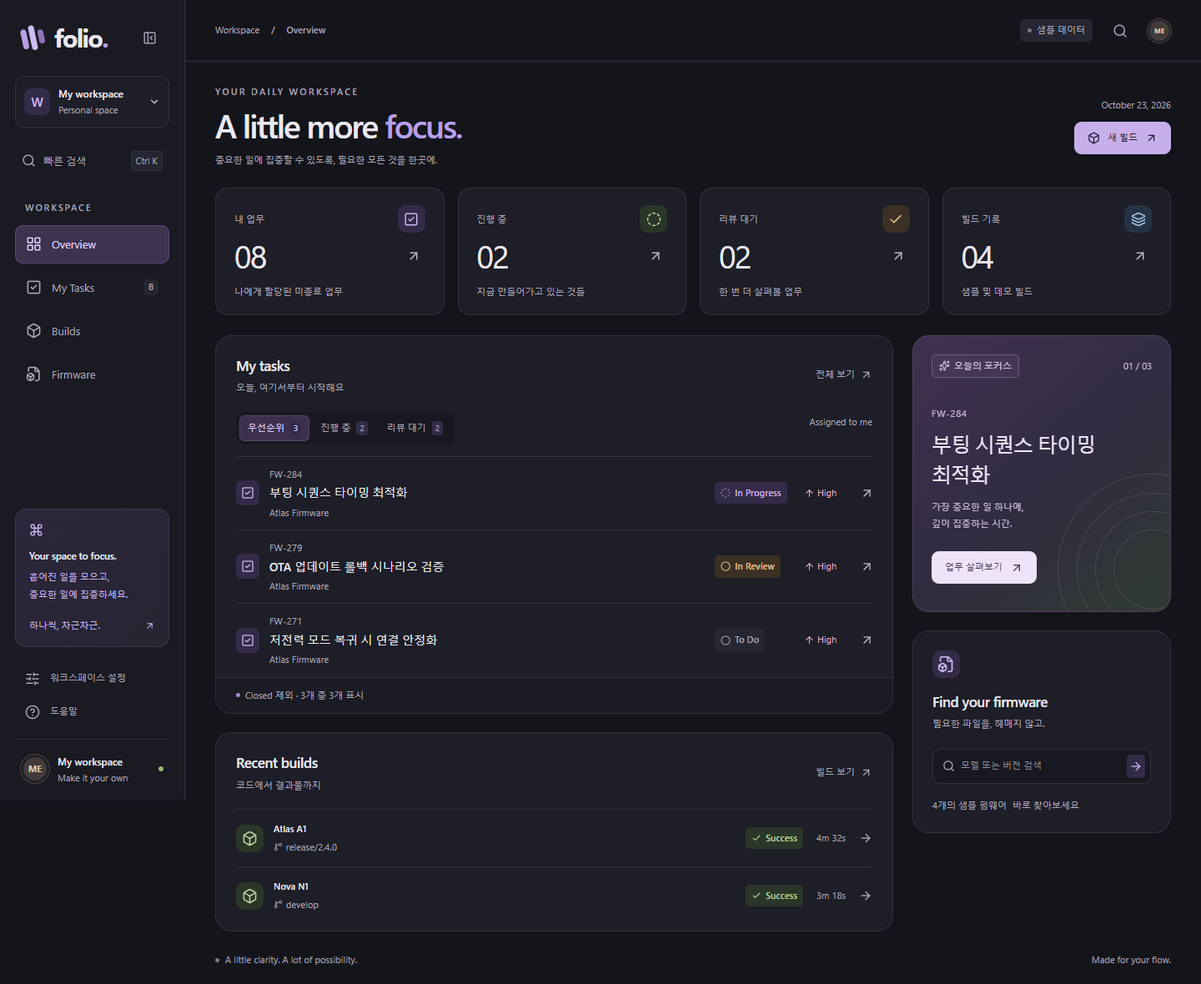
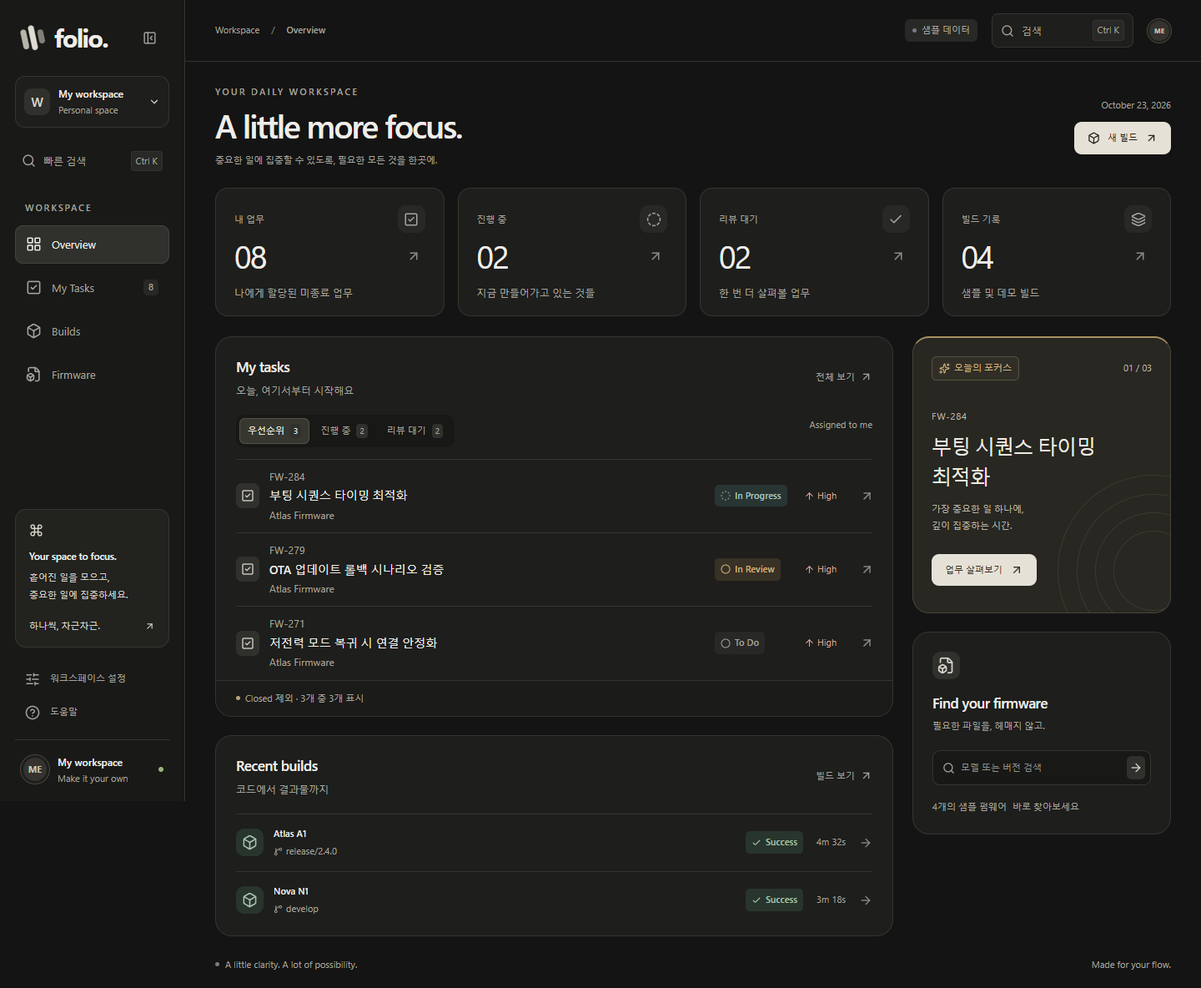
feat(ui): refine neutral theme and workspace controls

diff --git a/src/theme.css b/src/theme.css
@@ -1,106 +1,144 @@
 /* Theme selection uses native radios, including arrow-key navigation. */
-:root { color-scheme: light; }
+:root { color-scheme: light; --ring: #7d776c; --control-fill: #303035; --control-ink: #fff; }
 .theme-picker { border: 0; padding: 0; margin: 0 0 28px; min-width: 0; }
 .theme-picker legend { font-size: 13px; font-weight: 600; color: var(--text); }
 .theme-picker > p { color: var(--muted); font-size: 11px; margin: 7px 0 16px; line-height: 1.8; }
 .theme-options { display: grid; grid-template-columns: repeat(2, minmax(0, 1fr)); gap: 12px; }
 .theme-option { position: relative; display: flex; flex-direction: column; gap: 5px; padding: 11px; border: 1px solid var(--border); border-radius: 12px; cursor: pointer; background: var(--surface); }
-.theme-option:has(:checked) { border-color: var(--purple); box-shadow: 0 0 0 1px var(--purple); }
-.theme-option:has(:focus-visible) { outline: 2px solid var(--purple); outline-offset: 4px; }
-.theme-option input { position: absolute; right: 12px; bottom: 31px; accent-color: var(--purple); width: 14px; height: 14px; }
+.theme-option:has(:checked) { border-color: var(--ring); box-shadow: 0 0 0 1px var(--ring); }
+.theme-option:has(:focus-visible) { outline: 2px solid var(--ring); outline-offset: 4px; }
+.theme-option input { position: absolute; right: 12px; bottom: 31px; accent-color: var(--ring); width: 14px; height: 14px; }
 .theme-option-name { color: var(--text); font-weight: 600; font-size: 12px; margin-top: 5px; }
 .theme-option small { color: var(--muted); font-size: 11px; }
 .theme-swatch { height: 66px; display: flex; gap: 8px; padding: 8px; border-radius: 7px; background: #f0eff5; border: 1px solid #e2deeb; }
 .theme-swatch > i { width: 22%; border-radius: 3px; background: #d4c7ef; }
 .theme-swatch > span { display: grid; grid-template-columns: 1fr 1fr; gap: 5px; flex: 1; }
 .theme-swatch b { background: white; border-radius: 3px; }.theme-swatch b:last-child { grid-column: span 2; }
-[data-preview='dark'] .theme-swatch { background: #16171d; border-color: #33343e; }
-[data-preview='dark'] .theme-swatch > i { background: #8770b3; }
-[data-preview='dark'] .theme-swatch b { background: #30313c; }
+[data-preview='dark'] .theme-swatch { background: #151515; border-color: #363633; }
+[data-preview='dark'] .theme-swatch > i { background: #a9a69f; }
+[data-preview='dark'] .theme-swatch b { background: #30302e; }
 
-/* Midnight: graphite surfaces, soft lavender accents and legible status colors. */
+/* Midnight: warm neutral surfaces; color is reserved for status and focus. */
 :root[data-theme='dark'] {
   color-scheme: dark;
-  --canvas: #14151b; --surface: #1d1e27; --text: #ebe9f2; --muted: #aba6ba; --border: #32323f;
-  --lavender: #332b48; --purple: #b9a0eb; --lime: #2c382c;
-  --raised: #252631; --hover: #2d2b3a; --field: #181920; --accent-ink: #c9b5ef;
-  --green-ink: #bad49e; --green-fill: #293628; --amber-ink: #e5c28d; --amber-fill: #3b3023;
-  --red-ink: #edabc0; --red-fill: #3c2731;
+  --ring: #a29c8d; --control-fill: #e5e1d7; --control-ink: #22221e;
+  --canvas: #141414; --surface: #1e1e1c; --text: #eeede9; --muted: #a5a49e; --border: #343430;
+  --accent-surface: #30302c; --accent-foreground: #d6d3c9;
+  --lavender: var(--accent-surface); --purple: #dedbd2; --lime: #29332e;
+  --raised: #282826; --hover: #30302c; --field: #181817; --accent-ink: var(--accent-foreground);
+  --green-ink: #a9c4b0; --green-fill: #28352d; --amber-ink: #d5b57d; --amber-fill: #383125;
+  --red-ink: #d9a49a; --red-fill: #3b2b27;
   color: var(--text); background: var(--canvas);
 }
 html[data-theme='dark'] {
-  ::selection { background: #604b86; color: #fff; }
+  ::selection { background: #565449; color: #fff; }
   input, select { color: var(--text); }
-  input::placeholder { color: #908b9f; }
+  input::placeholder { color: #93928c; }
   option { color: var(--text); background: var(--field); }
-  .sidebar { background: #191a22; }
+  .sidebar { background: #191918; }
   .card, .workspace-switch, .status-summary, .dialog-content, .toast { background: var(--surface); border-color: var(--border); }
   .dialog-content, .toast { box-shadow: 0 20px 70px #0006; }
   .icon-button, .sidebar-search, .nav-item, .sidebar-bottom button, .text-button { color: var(--muted); }
   .icon-button:hover, .nav-item:hover, .sidebar-bottom button:hover, .task-row:hover, .recent-build-row:hover { background: var(--hover); color: var(--text); }
-  .nav-indicator { background: #3c334f; box-shadow: inset 0 0 0 1px #5b4875; }
-  .nav-item.active { background: transparent; color: #e4d4ff; }
+  .nav-indicator { background: #30302d; box-shadow: inset 0 0 0 1px #44443e; }
+  .nav-item.active { background: transparent; color: #f0eee7; }
   .nav-item b, .nav-item.active b, kbd, .demo-badge { background: var(--raised); color: var(--muted); border-color: var(--border); }
   .nav-item.active b { color: var(--accent-ink); }
   .workspace-icon { color: var(--accent-ink); }
-  .workspace-note { background: linear-gradient(135deg, #2d263c, #252632); border-color: #40354e; }
+  .workspace-note { background: #22221f; border-color: #363630; }
   .workspace-note p, .workspace-note > span:last-child, .note-symbol { color: var(--accent-ink); }
-  .avatar, .mini-avatar { background: #423b38; color: #dbc7b4; border-color: var(--surface); box-shadow: 0 0 0 1px #51433d; }
+  .avatar, .mini-avatar { background: #36332e; color: #c9c3b5; border-color: var(--surface); box-shadow: 0 0 0 1px #4a463d; }
   .breadcrumbs, .breadcrumbs strong, .nav-caption, .eyebrow, .date-label, .page-heading p, .page-index, .page-index > span, .workspace-foot { color: var(--muted); }
-  h1 > span, .brand-name > span { color: var(--purple); }
-  .button.primary { background: #c7afea; color: #231b32; box-shadow: 0 3px 12px #0002; }
-  .button.primary:hover { background: #d7c2f3; }
+  h1 > span, .brand-name > span { color: var(--text); }
+  .button.primary { background: #e5e1d7; color: #22221e; box-shadow: 0 3px 12px #0002; }
+  .button.primary:hover { background: #f3f0e8; }
   .button.secondary { background: var(--raised); border-color: var(--border); color: var(--text); }
   .button.secondary:hover { background: var(--hover); }
-  .metric-card:hover { border-color: #78618f; box-shadow: 0 4px 18px #0002; }
+  .metric-card:hover { border-color: #626259; box-shadow: 0 4px 18px #0002; }
   .metric-top, .metric-card p, .panel-heading p, .subtle-label, .task-key, .task-project, .recent-build-name small, .build-duration { color: var(--muted); }
   .square-icon, .artifact-icon { background: var(--lavender); color: var(--accent-ink); }
   .lavender, .status-badge.purple { background: var(--lavender); color: var(--accent-ink); }
   .mint, .status-badge.green { background: var(--green-fill); color: var(--green-ink); }
   .peach, .status-badge.amber { background: var(--amber-fill); color: var(--amber-ink); }
-  .blue { background: #253344; color: #a9c8e9; }
+  .blue { background: #2b3234; color: #b5c4c5; }
   .rose, .status-badge.red { background: var(--red-fill); color: var(--red-ink); }
   .status-badge.neutral { background: var(--raised); color: var(--muted); }
   .priority { color: var(--muted); }.priority-high { color: var(--red-ink); }.priority-low { color: var(--green-ink); }
   .task-row, .recent-build-row, .card-footnote, .task-table-head, .table-footer, .build-table th, .build-table td, .artifact-row, .dialog-heading, .detail-fields > div, .integration-row, .search-footer { border-color: var(--border); }
-  .card-footnote { background: #1a1b23; color: var(--muted); }
-  .focus-card { background: linear-gradient(140deg, #403151, #302c40 55%, #303b31); border-color: #51415f; }
-  .focus-top, .focus-key, .focus-content p { color: #c7b5d9; }
-  .focus-top > span:first-child { background: #b99cdb12; border-color: #705981; color: #dac4ef; }
-  .focus-content h2 { color: #f0e5fa; }
-  .focus-button { background: #eee4fa; color: #493456; border-color: transparent; }
-  .focus-button:hover { background: #fff; }.focus-orbit, .focus-orbit i { border-color: #c5add528; }
+  .card-footnote { background: #1b1b19; color: var(--muted); }
+  .focus-card { background: #282722; border-color: #484437; }
+  .focus-top, .focus-key, .focus-content p { color: #bbb5a5; }
+  .focus-top > span:first-child { background: #d5b57d0c; border-color: #5b5140; color: #d5b57d; }
+  .focus-content h2 { color: #eeebe2; }
+  .focus-button { background: #e5e1d7; color: #302e26; border-color: transparent; }
+  .focus-button:hover { background: #fff; }.focus-orbit, .focus-orbit i { border-color: #b7a78222; }
   .quick-firmware p, .library-count, .library-count > span { color: var(--muted); }
   .quick-search, .search-input, select, .input-with-icon, .global-search-field { background: var(--field); border-color: var(--border); color: var(--muted); }
   .quick-search button { background: var(--lavender); color: var(--accent-ink); }
-  .quick-search button:hover { background: #4c3b65; }
-  .status-summary.selected { background: #292334; border-color: #9473bd; box-shadow: 0 0 0 2px #b99cdb20; }
+  .quick-search button:hover { background: #45453d; }
+  .status-summary.selected { background: #292925; border-color: #858275; box-shadow: 0 0 0 2px #dedbd220; }
   .status-summary > span:last-child, .select-wrap, .task-table-head, .table-footer, .empty-state, .form-grid label, .field-label, .form-bottom > span { color: var(--muted); }
-  .count-pill, .version-tag { background: var(--lavender); color: var(--accent-ink); border-color: #4b3d60; }
+  .count-pill, .version-tag { background: var(--lavender); color: var(--accent-ink); border-color: #4a4a41; }
   .pagination > span { background: var(--lavender); color: var(--accent-ink); }
   .empty-state h3 { color: var(--text); }
   .form-error { color: var(--red-ink); }
-  .input-with-icon:has(input[aria-invalid='true']) { background: var(--red-fill); border-color: #b7768c; }
-  .build-aside { background: linear-gradient(135deg, #2d392e, #242d28); border-color: #42513d; }
+  .input-with-icon:has(input[aria-invalid='true']) { background: var(--red-fill); border-color: #b78477; }
+  .build-aside { background: #242924; border-color: #3b443b; }
   .build-aside > .square-icon { background: var(--green-fill); color: var(--green-ink); }
-  .build-aside h2 { color: #d5e4c4; }.build-aside p, .build-aside .eyebrow, .aside-foot { color: var(--green-ink); }
-  .branch-illustration > span { background: #2d392e; }
+  .build-aside h2 { color: #d5ddd2; }.build-aside p, .build-aside .eyebrow, .aside-foot { color: var(--green-ink); }
+  .branch-illustration > span { background: #293029; }
   .build-table th, .build-table td, .table-identity small { color: var(--muted); }.table-identity strong { color: var(--text); }
-  .firmware-hero { background: linear-gradient(115deg, #31283f, #292838 55%, #263444); border-color: #43394f; }
+  .firmware-hero { background: #252624; border-color: #3b3e38; }
   .firmware-hero h2 { color: var(--text); }.firmware-hero h2 > span, .firmware-hero p { color: var(--accent-ink); }
-  .chip-core { background: linear-gradient(130deg, #4e4065, #292437); border-color: #72608a; color: #c4afe0; box-shadow: 12px 20px 25px #0003, inset 1px 1px 0 #ffffff15; }
-  .chip-core > span { background: #3a304b; }.chip-label { background: #322b40; border-color: #635175; color: #d4c1ea; }
+  .chip-core { background: linear-gradient(130deg, #42443e, #282a26); border-color: #64685b; color: #c3c9b6; box-shadow: 12px 20px 25px #0003, inset 1px 1px 0 #ffffff15; }
+  .chip-core > span { background: #34372f; }.chip-label { background: #30332c; border-color: #5b6053; color: #d1d6c5; }
   .artifact-title { color: var(--text); }.artifact-title:hover { color: var(--accent-ink); }
   .artifact-meta, .artifact-info code { color: var(--muted); }
-  .dialog-overlay { background: #07080dc2; }
+  .dialog-overlay { background: #080808c2; }
   .dialog-heading h2, .task-details h2, .setting-row strong { color: var(--text); }
   .dialog-heading p, .task-details p, .task-details h3, .detail-fields dt, .detail-fields dd, .settings-body > p, .settings-body h3, .setting-row p, .integration-row, .help-shortcut { color: var(--muted); }
-  .note-box, .path-block, .build-result { background: #292334; border-color: #44354f; color: var(--accent-ink); }
+  .note-box, .path-block, .build-result { background: #292925; border-color: #414138; color: var(--accent-ink); }
   .search-results strong { color: var(--text); }.search-results small, .search-empty, .search-footer { color: var(--muted); }
-  .search-results > button:hover, .search-results > button:focus-visible, .search-results > button[aria-selected='true'] { background: var(--hover); }
+  .search-results button[role='option']:hover, .search-results button[role='option']:focus-visible, .search-results button[role='option'][aria-selected='true'] { background: var(--hover); }
   .preview-switch { background: var(--field); }.preview-switch button { color: var(--muted); }
-  .preview-switch button[aria-pressed='true'] { background: #3b304d; color: #e1ccfc; box-shadow: inset 0 0 0 1px #59426f; }
+  .preview-switch button[aria-pressed='true'] { background: #373730; color: #eeece3; box-shadow: inset 0 0 0 1px #525248; }
   .preview-switch button span { background: var(--lavender); }.preview-empty { color: var(--muted); }
-  .copy-button[data-copied='true'] { color: var(--green-ink); background: var(--green-fill); border-color: #526744; }
+  .copy-button[data-copied='true'] { color: var(--green-ink); background: var(--green-fill); border-color: #506553; }
   .toast { color: var(--text); }
+  .brand-mark span { background: #b7b4aa; }.brand-mark span:nth-child(2) { background: #dedbd2; }.brand-mark span:last-child { background: #827f76; }
+  .purple-dot { background: #b5a47c; }
+  .status-badge.purple { color: #a9c6c2; background: #283532; }
+  .metric-top .square-icon { background: var(--raised); color: var(--muted); }
+  .chip-orbit { border-color: #71776755; }
+  .branch-illustration > span, .branch-illustration::after { border-color: #88957f; }.branch-illustration i { background: #88957f; }
+  .row-arrow, .metric-value svg, .recent-build-row > svg, .artifact-title > svg, .breadcrumbs > span { color: #8c8b82; }
+  .focus-card { border-top: 2px solid #aa9162; }
+  .card, .metric-card, .status-summary { box-shadow: none; }
+
 }
+
+/* Shared interaction refinements informed by shadcn Field, Switch and Command. */
+button:focus-visible, a:focus-visible, input:focus-visible, select:focus-visible { outline-color: var(--ring); }
+.search-input:focus-within, .quick-search:focus-within, .input-with-icon:focus-within, .global-search-field:focus-within {
+  border-color: var(--ring); box-shadow: 0 0 0 3px color-mix(in srgb, var(--ring) 18%, transparent);
+}
+.search-input input:focus-visible, .quick-search input:focus-visible, .input-with-icon input:focus-visible, .global-search-field input:focus-visible { outline: none; }
+.input-with-icon:has(input[aria-invalid='true']):focus-within { border-color: #b78477; box-shadow: 0 0 0 3px #b7847726; }
+.header-search { display: inline-flex; align-items: center; gap: 9px; padding: 7px 10px; min-width: 170px; border: 1px solid var(--border); border-radius: 8px; background: var(--surface); color: var(--muted); font-size: 12px; }
+.header-search kbd { margin-left: auto; }.header-search:hover { border-color: var(--ring); }
+.motion-setting { justify-content: space-between; padding: 16px; border: 1px solid var(--border); border-radius: 10px; cursor: pointer; }
+.setting-description { display: block; font-size: 12px; line-height: 1.7; color: var(--muted); margin-top: 6px; }
+.setting-row .switch-control { appearance: none; position: relative; margin: 0; width: 36px; height: 21px; border: 1px solid var(--border); border-radius: 20px; background: var(--border); cursor: pointer; transition: background-color var(--motion-fast); }
+.switch-control::before { content: ''; display: block; position: absolute; top: 2px; left: 2px; height: 15px; width: 15px; background: var(--surface); border-radius: 50%; box-shadow: 0 1px 3px #0003; transition: transform var(--motion-fast); }
+.setting-row .switch-control:checked { background: var(--control-fill); border-color: var(--control-fill); }
+.switch-control:checked::before { transform: translateX(15px); background: var(--control-ink); }
+.search-results { max-height: min(390px, 45vh); overflow-y: auto; overscroll-behavior: contain; scrollbar-width: thin; }
+.search-group + .search-group { border-top: 1px solid var(--border); margin-top: 6px; padding-top: 6px; }
+.search-group-heading { display: flex; justify-content: space-between; padding: 8px 12px; font-size: 12px; font-weight: 600; color: var(--muted); }
+.search-group-heading span { font-size: 11px; font-weight: 400; font-variant-numeric: tabular-nums; }
+.search-results button[role='option'] { padding: 10px 12px; }
+.search-results button[role='option'] .square-icon { width: 28px; height: 28px; border-radius: 6px; }
+.search-results strong, .search-input input, .global-search-field input, .form-grid label, .field-label, .input-with-icon input, select { font-size: 13px; }
+.panel-heading p, .metric-card p, .task-key, .task-project, .artifact-meta, .artifact-info code, .form-bottom > span { font-size: 12px; }
+.dialog-heading { padding: 20px 24px; }.dialog-content { border-radius: 14px; }
+@media (max-width: 800px) { .header-search { min-width: 0; }.header-search kbd { display: none; } }

diff --git a/src/App.tsx b/src/App.tsx
@@ -59,11 +59,11 @@ export default function App() {
     <aside className="sidebar"><div className="brand-row"><a className="brand" href="#" aria-label="Folio 홈" onClick={e => { e.preventDefault(); setView('overview'); }}><span className="brand-mark"><span /><span /><span /></span><span className="brand-name">folio<span>.</span></span></a><button className="icon-button sidebar-toggle" aria-label={collapsed ? '메뉴 펼치기' : '메뉴 접기'} onClick={() => setCollapsed(!collapsed)}>{collapsed ? <PanelLeftOpen size={17} /> : <PanelLeftClose size={17} />}</button></div>
       <button className="workspace-switch" onClick={() => setInfo('settings')}><span className="workspace-icon">W</span><span><strong>My workspace</strong><small>Personal space</small></span><ChevronDown size={14} /></button>
       <button className="sidebar-search" aria-label="통합 검색 열기" onClick={() => setSearchOpen(true)}><Search size={17} /><span>빠른 검색</span><kbd>Ctrl K</kbd></button>
-      <span className="nav-caption">WORKSPACE</span><nav aria-label="주 메뉴" style={{ '--active-index': NAV_ITEMS.findIndex(item => item.id === view) } as CSSProperties}><span className="nav-indicator" aria-hidden="true" />{NAV_ITEMS.map(item => { const Icon = NAV_ICONS[item.id]; return <button aria-label={item.label} aria-current={view === item.id ? 'page' : undefined} className={`nav-item ${view === item.id ? 'active' : ''}`} onClick={() => setView(item.id)} key={item.id}><Icon size={19} /><span>{item.label}</span>{item.id === 'tasks' && <b>{owned.length}</b>}</button>; })}</nav>
+      <span className="nav-caption">WORKSPACE</span><nav aria-label="주 메뉴" style={{ '--active-index': NAV_ITEMS.findIndex(item => item.id === view) } as CSSProperties}><span className="nav-indicator" aria-hidden="true" />{NAV_ITEMS.map(item => { const Icon = NAV_ICONS[item.id]; return <button aria-label={item.label} title={item.label} aria-current={view === item.id ? 'page' : undefined} className={`nav-item ${view === item.id ? 'active' : ''}`} onClick={() => setView(item.id)} key={item.id}><Icon size={19} /><span>{item.label}</span>{item.id === 'tasks' && <b>{owned.length}</b>}</button>; })}</nav>
       <div className="sidebar-spacer" /><div className="workspace-note"><span className="note-symbol"><Command size={17} /></span><strong>Your space to focus.</strong><p>흩어진 일을 모으고,<br />중요한 일에 집중하세요.</p><span>하나씩, 차근차근.<ArrowUpRight size={13} /></span></div>
-      <div className="sidebar-bottom"><button onClick={() => setInfo('settings')}><SlidersHorizontal size={18} /><span>워크스페이스 설정</span></button><button onClick={() => setInfo('help')}><HelpCircle size={18} /><span>도움말</span></button></div><div className="profile"><span className="avatar">ME</span><span><strong>My workspace</strong><small>Make it your own</small></span><span className="profile-dot" /></div>
+      <div className="sidebar-bottom"><button aria-label="워크스페이스 설정" title="워크스페이스 설정" onClick={() => setInfo('settings')}><SlidersHorizontal size={18} /><span>워크스페이스 설정</span></button><button aria-label="도움말" title="도움말" onClick={() => setInfo('help')}><HelpCircle size={18} /><span>도움말</span></button></div><div className="profile"><span className="avatar">ME</span><span><strong>My workspace</strong><small>Make it your own</small></span><span className="profile-dot" /></div>
     </aside>
-    <main className="main-content"><header className="topbar"><div className="breadcrumbs">Workspace <span>/</span> <strong>{nav.label}</strong></div><div className="topbar-right"><span className="demo-badge"><span className="tiny-dot" />샘플 데이터</span><button className="icon-button header-search" aria-label="검색" onClick={() => setSearchOpen(true)}><Search size={18} /></button><span className="mini-avatar">ME</span></div></header>
+    <main className="main-content"><header className="topbar"><div className="breadcrumbs">Workspace <span>/</span> <strong>{nav.label}</strong></div><div className="topbar-right"><span className="demo-badge"><span className="tiny-dot" />샘플 데이터</span><button className="header-search" aria-label="검색" onClick={() => setSearchOpen(true)}><Search size={16} /><span>검색</span><kbd>Ctrl K</kbd></button><span className="mini-avatar">ME</span></div></header>
       <div className="page-content"><div className="page-heading"><div><span className="eyebrow">{nav.eyebrow}</span><h1>{view === 'overview' ? <>A little more <span>focus.</span></> : nav.label}</h1><p>{nav.subtitle}</p></div><div className="heading-action">{view === 'overview' ? <><span className="date-label">{today}</span><button className="button primary" onClick={() => setView('builds')}><Box size={15} />새 빌드<ArrowUpRight size={15} /></button></> : <span className="page-index">0{NAV_ITEMS.findIndex(item => item.id === view) + 1}<span> / 04</span></span>}</div></div>
       <div className="view-content" key={view}>
         {view === 'overview' && <Overview tasks={owned} builds={builds} firmware={demoFirmware} navigate={setView} onTask={setTask} onBuild={setBuild} onFirmwareSearch={query => { setFirmwareQuery(query); setModel(ALL); setView('firmware'); }} />}
@@ -74,7 +74,7 @@ export default function App() {
     </main>
     <GlobalSearch open={searchOpen} onClose={() => setSearchOpen(false)} tasks={owned} builds={builds} firmware={demoFirmware} onTask={selected => { setView('tasks'); setTask(selected); }} onBuild={selected => { setView('builds'); setBuild(selected); }} onFirmware={selected => { setView('firmware'); setArtifact(selected); }} />
     <TaskDetails task={task} onClose={() => setTask(null)} /><BuildDetails build={build} onClose={() => setBuild(null)} /><FirmwareDetails record={artifact} onClose={() => setArtifact(null)} notify={setNotification} />
-    <Modal open={!!info} onClose={() => setInfo(null)} title={info === 'settings' ? '워크스페이스 설정' : 'Welcome to Folio'} description="나만의 업무 공간을 준비하는 첫 단계"><div className="settings-body">{info === 'settings' ? <><fieldset className="theme-picker"><legend>화면 테마</legend><p>나에게 편안한 분위기를 선택하세요. 다음 실행에도 유지됩니다.</p><div className="theme-options">{THEMES.map(option => <label className="theme-option" key={option.id} data-preview={option.id}><input type="radio" name="theme" value={option.id} checked={theme === option.id} onChange={() => changeTheme(option.id)} /><span className="theme-swatch" aria-hidden="true"><i /><span><b /><b /><b /></span></span><span className="theme-option-name">{option.name}</span><small>{option.description}</small></label>)}</div></fieldset><div className="setting-row"><div><strong>움직임 줄이기</strong><p>화면 전환 효과를 줄입니다. Windows 설정도 자동으로 반영됩니다.</p></div><input type="checkbox" aria-label="움직임 줄이기" checked={reduceMotion} onChange={e => setReduceMotion(e.target.checked)} /></div><h3>연결 서비스</h3>{['Jira', 'Build system', 'Firmware source'].map(service => <div className="integration-row" key={service}><span>{service}</span><span className="status-badge neutral">연결 전</span></div>)}<p className="settings-note">현재는 예시 데이터로 동작합니다. 회사 환경에서 서비스를 연결해주세요. 데모 변경 사항은 앱을 다시 열면 초기화됩니다.</p></> : <><p>업무, 빌드, 펌웨어를 한곳에서 확인하는 개인용 대시보드입니다.</p><div className="help-shortcut"><kbd>Ctrl</kbd> + <kbd>K</kbd><span>어디서든 통합 검색</span></div><div className="help-shortcut"><kbd>Esc</kbd><span>상세 패널과 대화상자 닫기</span></div><div className="note-box">모든 업무·빌드·파일은 예시입니다. 빌드 추가는 데모 대기열에만 반영되고 실제 파일이나 서버는 변경하지 않습니다.</div></>}</div></Modal>
+    <Modal open={!!info} onClose={() => setInfo(null)} title={info === 'settings' ? '워크스페이스 설정' : 'Welcome to Folio'} description="나만의 업무 공간을 준비하는 첫 단계"><div className="settings-body">{info === 'settings' ? <><fieldset className="theme-picker"><legend>화면 테마</legend><p>나에게 편안한 분위기를 선택하세요. 다음 실행에도 유지됩니다.</p><div className="theme-options">{THEMES.map(option => <label className="theme-option" key={option.id} data-preview={option.id}><input type="radio" name="theme" value={option.id} checked={theme === option.id} onChange={() => changeTheme(option.id)} /><span className="theme-swatch" aria-hidden="true"><i /><span><b /><b /><b /></span></span><span className="theme-option-name">{option.name}</span><small>{option.description}</small></label>)}</div></fieldset><label className="setting-row motion-setting"><span><strong>움직임 줄이기</strong><span className="setting-description" id="motion-description">화면 전환 효과를 줄입니다. Windows 설정도 자동으로 반영됩니다.</span></span><input className="switch-control" type="checkbox" role="switch" aria-label="움직임 줄이기" aria-describedby="motion-description" checked={reduceMotion} onChange={e => setReduceMotion(e.target.checked)} /></label><h3>연결 서비스</h3>{['Jira', 'Build system', 'Firmware source'].map(service => <div className="integration-row" key={service}><span>{service}</span><span className="status-badge neutral">연결 전</span></div>)}<p className="settings-note">현재는 예시 데이터로 동작합니다. 회사 환경에서 서비스를 연결해주세요. 데모 변경 사항은 앱을 다시 열면 초기화됩니다.</p></> : <><p>업무, 빌드, 펌웨어를 한곳에서 확인하는 개인용 대시보드입니다.</p><div className="help-shortcut"><kbd>Ctrl</kbd> + <kbd>K</kbd><span>어디서든 통합 검색</span></div><div className="help-shortcut"><kbd>Esc</kbd><span>상세 패널과 대화상자 닫기</span></div><div className="note-box">모든 업무·빌드·파일은 예시입니다. 빌드 추가는 데모 대기열에만 반영되고 실제 파일이나 서버는 변경하지 않습니다.</div></>}</div></Modal>
     {notification && <div className="toast" role="status"><span>{notification}</span><button className="icon-button" aria-label="알림 닫기" onClick={() => setNotification('')}><X size={16} /></button></div>}
   </div>;
 }

diff --git a/src/components/GlobalSearch.tsx b/src/components/GlobalSearch.tsx
@@ -1,25 +1,53 @@
-import { useState, type KeyboardEvent } from 'react';
+import { useEffect, useState, type KeyboardEvent } from 'react';
 import { ArrowUpRight, Box, FileBox, Search, SquareCheck } from 'lucide-react';
 import { Modal } from './ui';
 import type { Task, Build, FirmwareArtifact } from '../data/model';
-export function GlobalSearch({ open, onClose, tasks, builds, firmware, onTask, onBuild, onFirmware }: { open: boolean; onClose: () => void; tasks: Task[]; builds: Build[]; firmware: FirmwareArtifact[]; onTask: (task: Task) => void; onBuild: (build: Build) => void; onFirmware: (record: FirmwareArtifact) => void }) {
+
+const GROUP_LIMIT = 4;
+export function GlobalSearch({ open, onClose, tasks, builds, firmware, onTask, onBuild, onFirmware }: {
+  open: boolean; onClose: () => void; tasks: Task[]; builds: Build[]; firmware: FirmwareArtifact[];
+  onTask: (task: Task) => void; onBuild: (build: Build) => void; onFirmware: (record: FirmwareArtifact) => void;
+}) {
   const [query, setQuery] = useState('');
   const [active, setActive] = useState(0);
   const normalized = query.trim().toLocaleLowerCase();
-  const results = [
-    ...tasks.map(task => ({ id: task.id, title: task.title, meta: `${task.key} · My Tasks`, icon: SquareCheck, action: () => onTask(task) })),
-    ...builds.map(build => ({ id: build.id, title: `${build.target} · ${build.branch}`, meta: `${build.id} · Builds`, icon: Box, action: () => onBuild(build) })),
-    ...firmware.map(record => ({ id: record.id, title: record.filename, meta: `${record.model} · Firmware`, icon: FileBox, action: () => onFirmware(record) })),
-  ].filter(result => `${result.title} ${result.meta}`.toLocaleLowerCase().includes(normalized)).slice(0, 8);
+  const groups = [
+    { id: 'tasks', label: '내 업무', items: tasks.map(task => ({ id: `task-${task.id}`, title: task.title, meta: `${task.key} · ${task.project}`, icon: SquareCheck, action: () => onTask(task) })) },
+    { id: 'builds', label: '빌드', items: builds.map(build => ({ id: `build-${build.id}`, title: `${build.target} · ${build.branch}`, meta: `${build.id} · ${build.status}`, icon: Box, action: () => onBuild(build) })) },
+    { id: 'firmware', label: '펌웨어', items: firmware.map(record => ({ id: `firmware-${record.id}`, title: record.filename, meta: `${record.model} · ${record.version} · ${record.buildId}`, icon: FileBox, action: () => onFirmware(record) })) },
+  ].map(group => {
+    const matches = group.items.filter(item => `${item.title} ${item.meta}`.toLocaleLowerCase().includes(normalized));
+    return { ...group, total: matches.length, items: matches.slice(0, GROUP_LIMIT) };
+  }).filter(group => group.items.length);
+  const results = groups.flatMap(group => group.items);
   const activeIndex = Math.min(active, Math.max(0, results.length - 1));
-  function select(index: number) { const result = results[index]; if (result) { onClose(); result.action(); } }
+  const activeId = results[activeIndex]?.id;
+  useEffect(() => {
+    if (open && activeId) document.getElementById(`result-${activeId}`)?.scrollIntoView({ block: 'nearest' });
+  }, [open, activeId]);
+  function select(id: string) {
+    const result = results.find(item => item.id === id);
+    if (result) { onClose(); result.action(); }
+  }
   function onKeyDown(event: KeyboardEvent<HTMLInputElement>) {
     if (!results.length) return;
     if (event.key === 'ArrowDown' || event.key === 'ArrowUp') {
       event.preventDefault();
       setActive((activeIndex + (event.key === 'ArrowDown' ? 1 : -1) + results.length) % results.length);
-    } else if (event.key === 'Enter') { event.preventDefault(); select(activeIndex); }
+    } else if (event.key === 'Enter' && activeId) { event.preventDefault(); select(activeId); }
     else if (event.key === 'Home' || event.key === 'End') { event.preventDefault(); setActive(event.key === 'Home' ? 0 : results.length - 1); }
   }
-  return <Modal open={open} onClose={onClose} title="무엇을 찾고 있나요?" description="내 업무, 빌드, 펌웨어를 한 번에 검색하세요."><div className="global-search-field"><Search size={19} /><input role="combobox" aria-expanded={open} aria-controls="global-results" aria-activedescendant={results.length ? `result-${results[activeIndex].id}` : undefined} aria-autocomplete="list" aria-label="통합 검색어" placeholder="업무 이름, 빌드 또는 펌웨어 검색…" value={query} onChange={e => { setQuery(e.target.value); setActive(0); }} onKeyDown={onKeyDown} autoFocus /></div><div className="search-results" role="listbox" id="global-results" aria-label="검색 결과">{results.map((result, index) => <button role="option" aria-selected={index === activeIndex} id={`result-${result.id}`} tabIndex={-1} key={result.id} onMouseEnter={() => setActive(index)} onClick={() => select(index)}><span className="square-icon lavender"><result.icon size={18} /></span><span><strong>{result.title}</strong><small>{result.meta}</small></span><ArrowUpRight size={16} /></button>)}{!results.length && <p className="search-empty" role="status">검색 결과가 없어요. 다른 검색어를 입력해주세요.</p>}</div><div className="search-footer"><span><kbd>↑ ↓</kbd> 이동 <kbd>Enter</kbd> 열기</span><span><kbd>Esc</kbd> 닫기</span></div></Modal>;
+  return <Modal open={open} onClose={onClose} title="통합 검색" description="내 업무, 빌드, 펌웨어를 한 번에 검색하세요.">
+    <div className="global-search-field"><Search size={19} /><input role="combobox" aria-expanded={open} aria-controls="global-results" aria-activedescendant={activeId ? `result-${activeId}` : undefined} aria-autocomplete="list" aria-label="통합 검색어" placeholder="업무 이름, 빌드 또는 펌웨어 검색…" value={query} onChange={e => { setQuery(e.target.value); setActive(0); }} onKeyDown={onKeyDown} autoFocus /></div>
+    <div className="search-results" role="listbox" id="global-results" aria-label="검색 결과">
+      {groups.map(group => <div className="search-group" role="group" aria-labelledby={`search-group-${group.id}`} key={group.id}>
+        <div className="search-group-heading" id={`search-group-${group.id}`}>{group.label}<span>{group.items.length} / {group.total}</span></div>
+        {group.items.map(result => <button role="option" aria-selected={result.id === activeId} id={`result-${result.id}`} tabIndex={-1} key={result.id} onMouseEnter={() => setActive(results.findIndex(item => item.id === result.id))} onClick={() => select(result.id)}>
+          <span className="square-icon lavender"><result.icon size={17} /></span><span><strong>{result.title}</strong><small>{result.meta}</small></span><ArrowUpRight size={15} />
+        </button>)}
+      </div>)}
+      {!results.length && <p className="search-empty" role="status">검색 결과가 없어요. 다른 검색어를 입력해주세요.</p>}
+    </div>
+    <div className="search-footer"><span><kbd>↑ ↓</kbd> 이동 <kbd>Enter</kbd> 열기</span><span><kbd>Esc</kbd> 닫기</span></div>
+  </Modal>;
 }

diff --git a/src/styles.css b/src/styles.css
@@ -259,7 +259,7 @@ select { border: 1px solid #e9e6ef; border-radius: 8px; background: #faf9fc; col
 .build-result { background: #f4f0f8; padding: 24px; border-radius: 14px; color: #9a80ac; margin-top: 30px; }.build-result h3 { margin-top: 18px; }
 .path-block { display: block; overflow-wrap: anywhere; padding: 15px; background: #f5f1f9; color: #9174a3; font-size: 11px; line-height: 1.9; border-radius: 10px; margin-bottom: 18px; }.break-word { overflow-wrap: anywhere; }
 .global-search-field { display: flex; align-items: center; gap: 12px; margin: 20px 25px; padding: 13px; background: #f7f3fb; border: 1px solid #e7dfee; border-radius: 10px; color: #a58bb8; }.global-search-field input { background: transparent; border: 0; font-size: 12px; width: 100%; }
-.search-results { padding: 0 15px 15px; }.search-results > button { display: flex; align-items: center; gap: 12px; padding: 12px; border: 0; border-radius: 9px; background: transparent; width: 100%; text-align: left; }.search-results > button:hover, .search-results > button:focus-visible { background: #f5f0fb; }.search-results > button > span:nth-child(2) { min-width: 0; flex: 1; }.search-results strong { display: block; font-size: 12px; overflow-wrap: anywhere; color: #775b88; }.search-results small { display: block; margin-top: 5px; font-size: 11px; color: #816a90; }.search-results > button > svg { color: #b9a3c5; }.search-empty { padding: 25px 10px; text-align: center; font-size: 12px; color: #80698d; }.search-footer { border-top: 1px solid #f0eaf5; padding: 13px 25px; display: flex; justify-content: space-between; font-size: 11px; color: #816a90; }.search-footer kbd { margin-right: 5px; }
+.search-results { padding: 0 15px 15px; }.search-results button[role='option'] { display: flex; align-items: center; gap: 12px; padding: 12px; border: 0; border-radius: 9px; background: transparent; width: 100%; text-align: left; }.search-results button[role='option']:hover, .search-results button[role='option']:focus-visible { background: #f5f0fb; }.search-results button[role='option'] > span:nth-child(2) { min-width: 0; flex: 1; }.search-results strong { display: block; font-size: 12px; overflow-wrap: anywhere; color: #775b88; }.search-results small { display: block; margin-top: 5px; font-size: 11px; color: #816a90; }.search-results button[role='option'] > svg { color: #b9a3c5; }.search-empty { padding: 25px 10px; text-align: center; font-size: 12px; color: #80698d; }.search-footer { border-top: 1px solid #f0eaf5; padding: 13px 25px; display: flex; justify-content: space-between; font-size: 11px; color: #816a90; }.search-footer kbd { margin-right: 5px; }
 .settings-body { padding: 25px; }.settings-body > p { font-size: 12px; color: #9681a2; line-height: 1.9; }.settings-body h3 { font-size: 12px; margin: 25px 0 8px; color: #7f638e; }.setting-row { display: flex; align-items: center; gap: 25px; }.setting-row strong { font-size: 13px; color: #70547f; }.setting-row p { font-size: 11px; color: #7f668e; line-height: 1.9; margin-top: 8px; }.setting-row input { width: 20px; height: 20px; accent-color: #9676b5; flex-shrink: 0; }.integration-row { display: flex; justify-content: space-between; padding: 13px 0; border-bottom: 1px solid #f0e9f5; font-size: 12px; color: #9273a1; }.settings-note { margin-top: 20px; }.help-shortcut { display: flex; align-items: center; gap: 8px; font-size: 11px; color: #aa8bb9; margin-top: 18px; }.help-shortcut > span { margin-left: auto; }
 .toast { position: fixed; bottom: 24px; left: 50%; transform: translateX(-50%); z-index: 70; display: flex; align-items: center; gap: 18px; padding: 10px 13px 10px 20px; border: 1px solid #d8cce3; border-radius: 12px; background: #fff; color: #7e618f; box-shadow: 0 8px 30px #41275320; max-width: calc(100vw - 30px); font-size: 12px; animation: fade-in var(--motion-panel) var(--ease); }
 .sidebar-collapsed { grid-template-columns: 76px minmax(0,1fr); }.sidebar-collapsed .sidebar { padding-inline: 13px; }.sidebar-collapsed .brand-row { flex-direction: column; gap: 20px; padding: 0; margin-bottom: 20px; }.sidebar-collapsed .brand-name, .sidebar-collapsed .workspace-switch, .sidebar-collapsed .sidebar-search span, .sidebar-collapsed .sidebar-search kbd, .sidebar-collapsed .nav-caption, .sidebar-collapsed .nav-item span, .sidebar-collapsed .nav-item b, .sidebar-collapsed .workspace-note, .sidebar-collapsed .sidebar-bottom span, .sidebar-collapsed .profile > span:not(.avatar) { display: none; }.sidebar-collapsed .sidebar-search { margin-block: 10px 24px; justify-content: center; }.sidebar-collapsed .nav-item { justify-content: center; padding: 14px 8px; }.sidebar-collapsed .sidebar-bottom button { padding: 12px; }.sidebar-collapsed .profile { justify-content: center; padding-inline: 0; }
@@ -284,7 +284,7 @@ select { border: 1px solid #e9e6ef; border-radius: 8px; background: #faf9fc; col
 .copy-button[data-copied='true'] .copy-original { opacity: 0; transform: scale(.65) rotate(20deg); }
 .copy-button[data-copied='true'] .copy-confirm { opacity: 1; transform: none; }
 .copy-button[data-copied='true'] .copy-confirm path { stroke-dashoffset: 0; }
-.search-results > button[aria-selected='true'] { background: #f0e9f8; }
+.search-results button[role='option'][aria-selected='true'] { background: #f0e9f8; }
 .dialog-overlay[data-state='closed'], .dialog-content[data-state='closed'] { animation: fade-out 140ms var(--ease); }
 .detail-panel[data-state='closed'] { animation: exit-panel 160ms var(--ease); }
 @keyframes fade-out { to { opacity: 0; } }

diff --git a/tests/ui/refinement.spec.ts b/tests/ui/refinement.spec.ts
@@ -1,0 +1,35 @@
+import { test, expect } from '@playwright/test';
+
+test('grouped search exposes every source and scrolls keyboard selection into view', async ({ page }) => {
+  await page.goto('/');
+  await page.keyboard.press('Control+k');
+  const list = page.getByRole('listbox');
+  await expect(list.getByRole('group')).toHaveCount(3);
+  const input = page.getByRole('combobox');
+  await input.press('End');
+  const selected = list.getByRole('option', { selected: true });
+  await expect(selected).toBeInViewport();
+  await expect(input).toBeFocused();
+  await expect(selected).toContainText('atlas_a2');
+  await input.press('Enter');
+  await expect(page.getByRole('dialog')).toContainText('atlas_a2');
+  await page.keyboard.press('Escape');
+  await expect(page.getByRole('button', { name: 'Firmware', exact: true })).toHaveAttribute('aria-current', 'page');
+});
+
+test('compact settings stays named, switch supports keyboard, clear restores input focus', async ({ page }) => {
+  await page.setViewportSize({ width: 900, height: 700 });
+  await page.goto('/');
+  await page.getByRole('button', { name: '워크스페이스 설정', exact: true }).click();
+  const motion = page.getByRole('switch', { name: '움직임 줄이기' });
+  await motion.focus();
+  await page.keyboard.press('Space');
+  await expect(motion).toBeChecked();
+  await page.keyboard.press('Escape');
+  await page.getByRole('button', { name: 'My Tasks', exact: true }).click();
+  const input = page.getByLabel('업무 검색', { exact: true });
+  await input.fill('test');
+  await page.getByRole('button', { name: '업무 검색 지우기' }).click();
+  await expect(input).toBeFocused();
+  await expect(input).toHaveValue('');
+});

diff --git a/src/components/ui.tsx b/src/components/ui.tsx
@@ -32,7 +32,8 @@ export function PriorityBadge({ priority }: { priority: Priority }) {
   return <span className={`priority priority-${priority.toLowerCase()}`}><Icon size={13} />{priority}</span>;
 }
 export function SearchInput({ value, onChange, placeholder, label }: { value: string; onChange: (value: string) => void; placeholder: string; label: string }) {
-  return <div className="search-input"><Search size={16} /><input aria-label={label} placeholder={placeholder} value={value} onChange={event => onChange(event.target.value)} />{value && <button className="icon-button small" onClick={() => onChange('')} aria-label={`${label} 지우기`}><X size={14} /></button>}</div>;
+  const input = useRef<HTMLInputElement>(null);
+  return <div className="search-input"><Search size={16} /><input ref={input} aria-label={label} placeholder={placeholder} value={value} onChange={event => onChange(event.target.value)} />{value && <button type="button" className="icon-button small" onClick={() => { onChange(''); input.current?.focus(); }} aria-label={`${label} 지우기`}><X size={14} /></button>}</div>;
 }
 export function EmptyState({ onReset }: { onReset?: () => void }) {
   return <div className="empty-state"><Search size={28} /><h3>검색 결과가 없어요</h3><p>검색어나 필터를 바꿔 다시 찾아보세요.</p>{onReset && <button className="button secondary" onClick={onReset}>필터 초기화</button>}</div>;

diff --git a/tests/ui/theme.spec.ts b/tests/ui/theme.spec.ts
@@ -5,15 +5,15 @@ test('theme picker persists Midnight, styles portals and restores Daylight', asy
   await page.getByRole('button', { name: '워크스페이스 설정', exact: true }).click();
   await page.getByRole('radio', { name: /Midnight/ }).check();
   await expect(page.locator('html')).toHaveAttribute('data-theme', 'dark');
-  await expect(page.getByRole('dialog')).toHaveCSS('background-color', 'rgb(29, 30, 39)');
+  await expect(page.getByRole('dialog')).toHaveCSS('background-color', 'rgb(30, 30, 28)');
   await page.reload();
   await expect(page.locator('html')).toHaveAttribute('data-theme', 'dark');
   for (const view of ['My Tasks', 'Builds', 'Firmware', 'Overview']) {
     await page.getByRole('button', { name: view, exact: true }).click();
-    await expect(page.locator('.card').first()).toHaveCSS('background-color', 'rgb(29, 30, 39)');
+    await expect(page.locator('.card').first()).toHaveCSS('background-color', 'rgb(30, 30, 28)');
   }
   await page.keyboard.press('Control+k');
-  await expect(page.getByRole('dialog')).toHaveCSS('background-color', 'rgb(29, 30, 39)');
+  await expect(page.getByRole('dialog')).toHaveCSS('background-color', 'rgb(30, 30, 28)');
   await page.keyboard.press('Escape');
   await page.getByRole('button', { name: '워크스페이스 설정', exact: true }).click();
   await expect(page.getByRole('radio', { name: /Midnight/ })).toBeChecked();

diff --git a/tests/ui/motion.spec.ts b/tests/ui/motion.spec.ts
@@ -25,7 +25,7 @@ test('clipboard icon confirms actual success, not denial', async ({ page, contex
 test('in-app reduced motion includes portal dialogs', async ({ page }) => {
   await page.goto('/');
   await page.getByRole('button', { name: '워크스페이스 설정', exact: true }).click();
-  await page.getByRole('checkbox', { name: '움직임 줄이기' }).check();
+  await page.getByRole('switch', { name: '움직임 줄이기' }).check();
   await page.keyboard.press('Escape');
   await page.getByRole('button', { name: /FW-284/ }).click();
   expect(await page.getByRole('dialog').evaluate(el => getComputedStyle(el).animationName)).toBe('none');

diff --git a/src/theme.ts b/src/theme.ts
@@ -1,7 +1,7 @@
 export const THEME_STORAGE_KEY = 'folio.theme';
 export const THEMES = [
   { id: 'light', name: 'Daylight', description: '밝고 선명한 업무 공간' },
-  { id: 'dark', name: 'Midnight', description: '차분한 차콜과 라벤더' },
+  { id: 'dark', name: 'Midnight', description: '차콜, 스톤, 아이보리' },
 ] as const;
 export type Theme = typeof THEMES[number]['id'];
 

diff --git a/THIRD_PARTY_NOTICES.md b/THIRD_PARTY_NOTICES.md
@@ -34,5 +34,6 @@ SOFTWARE.
 - Bencho: https://bencho.dev/ — evaluated sidebar, copy field and form-error interaction patterns. No source code or paid assets imported.
 - Gr8r Studio: https://github.com/gr8rstudio/gr8r-studio/ and https://gr8r-taskmanagement.vercel.app/ — inspected the running home dashboard and adopted the idea of counted task-group switches. Implemented independently; no repository code, assets, or dependencies copied. No repository license was identified during review.
 - shadcn/ui: https://ui.shadcn.com/docs/components/radix/dialog — composition approach; dialogs use the Radix primitive directly with original styling.
+- shadcn/ui Theming, Switch, Input Group and Command documentation: https://ui.shadcn.com/docs/theming, https://ui.shadcn.com/docs/components/radix/switch, https://ui.shadcn.com/docs/components/radix/input-group, https://ui.shadcn.com/docs/components/radix/command — informed semantic foreground/surface pairs, clickable setting rows, input focus treatment and grouped command results. Implemented with existing React, native controls and Radix Dialog; no additional library or copied component source.
 
 Runtime and tooling package licenses remain with their respective packages. The npm and Cargo lockfiles record the dependencies used by this application.

diff --git a/README.md b/README.md
@@ -56,6 +56,8 @@ npm run tauri -- build --no-bundle
 
 워크스페이스 설정 → **화면 테마**에서 Daylight / Midnight를 선택할 수 있습니다. 테마 선택은 이 장치에 저장되며 다음 실행에도 적용됩니다. 저장이 차단된 환경에서는 이번 실행에만 적용하고 알림을 표시합니다.
 
+Midnight는 차콜·스톤·아이보리 중심의 중성 팔레트입니다. `Ctrl K` 검색은 업무·빌드·펌웨어를 분류해 표시하며 방향키로 이동합니다. 설정의 움직임 줄이기 스위치는 클릭 또는 Space로 전환할 수 있습니다.
+
 ![Midnight 테마](docs/assets/midnight.png)
 
 - [연동 가이드](docs/company-handoff.md)
